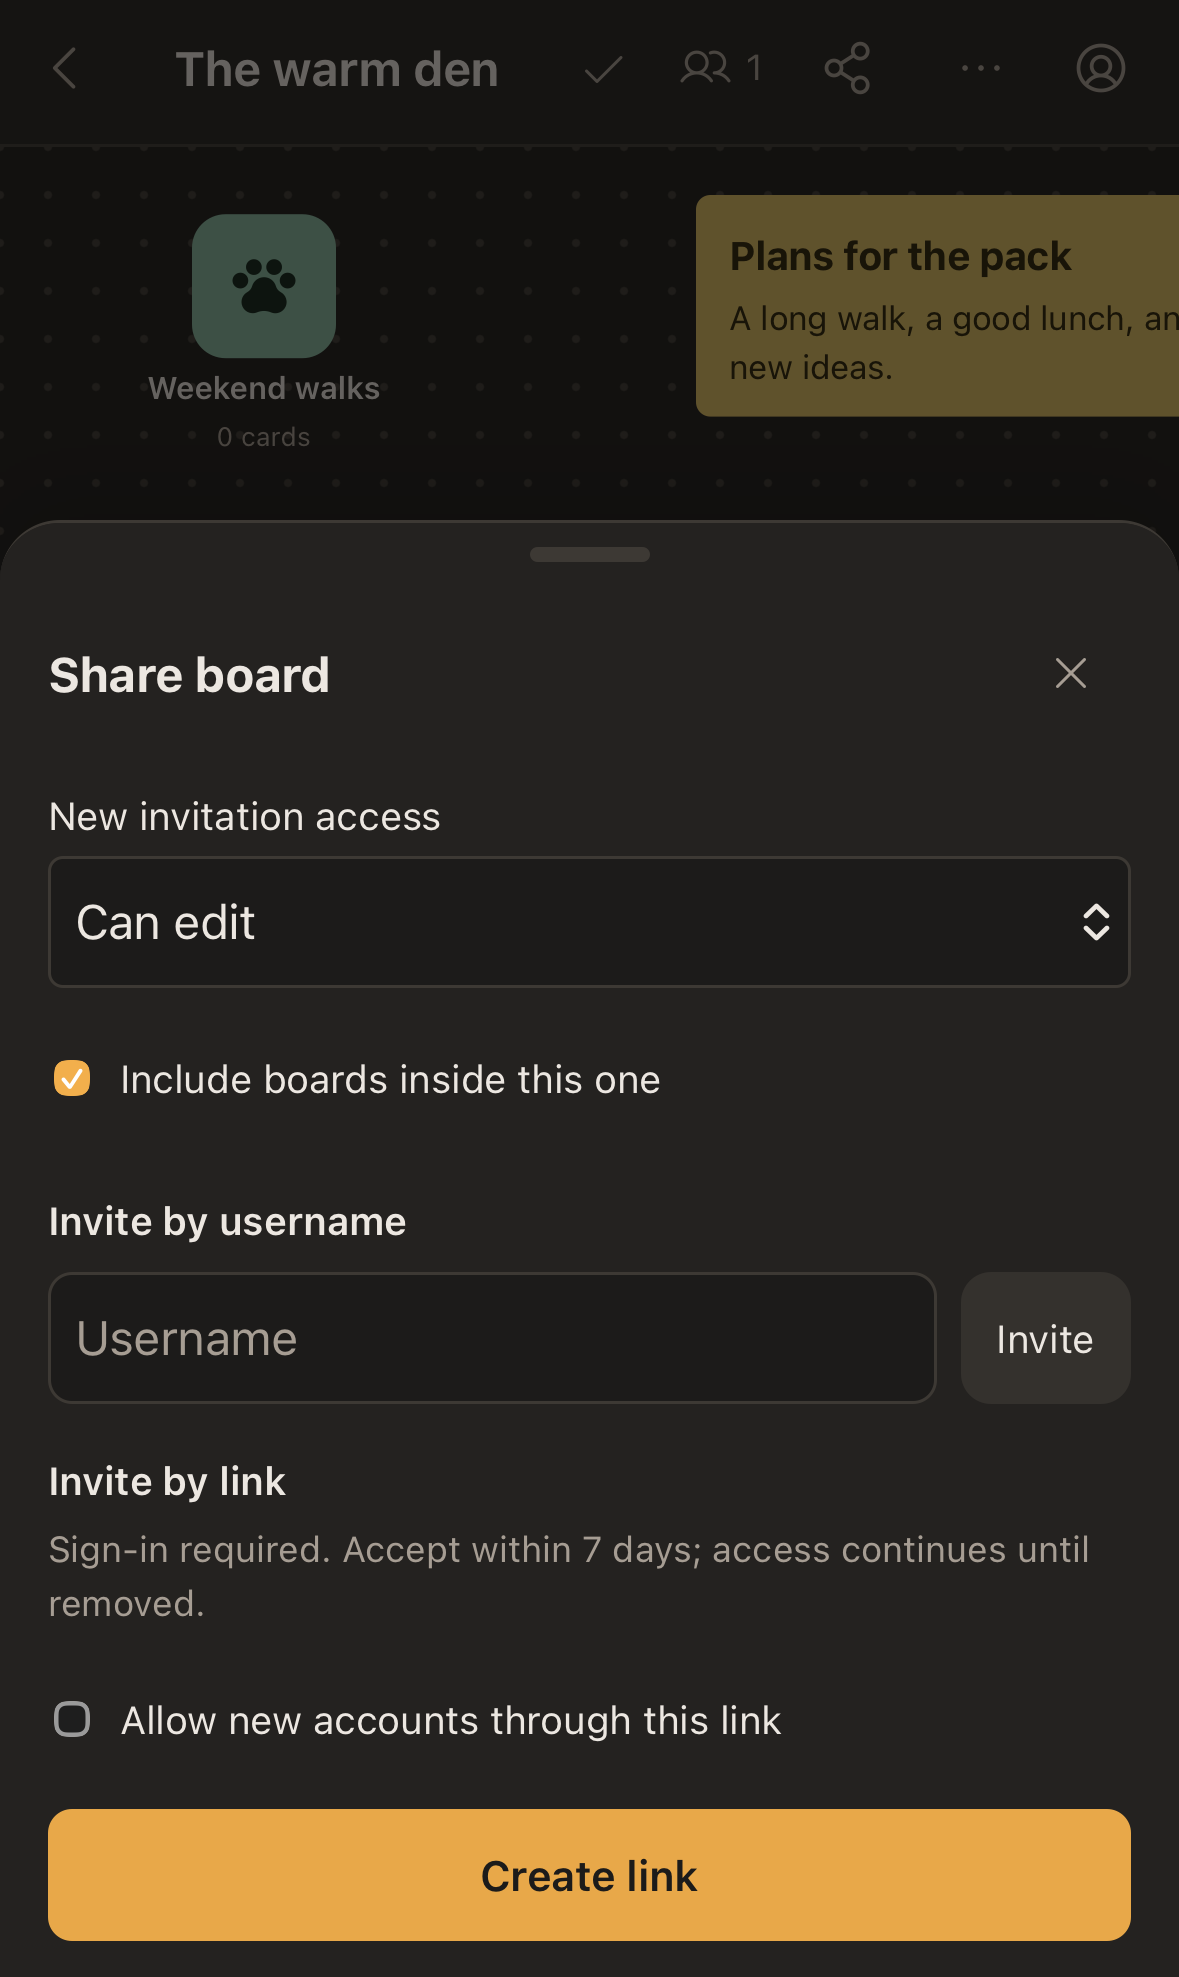
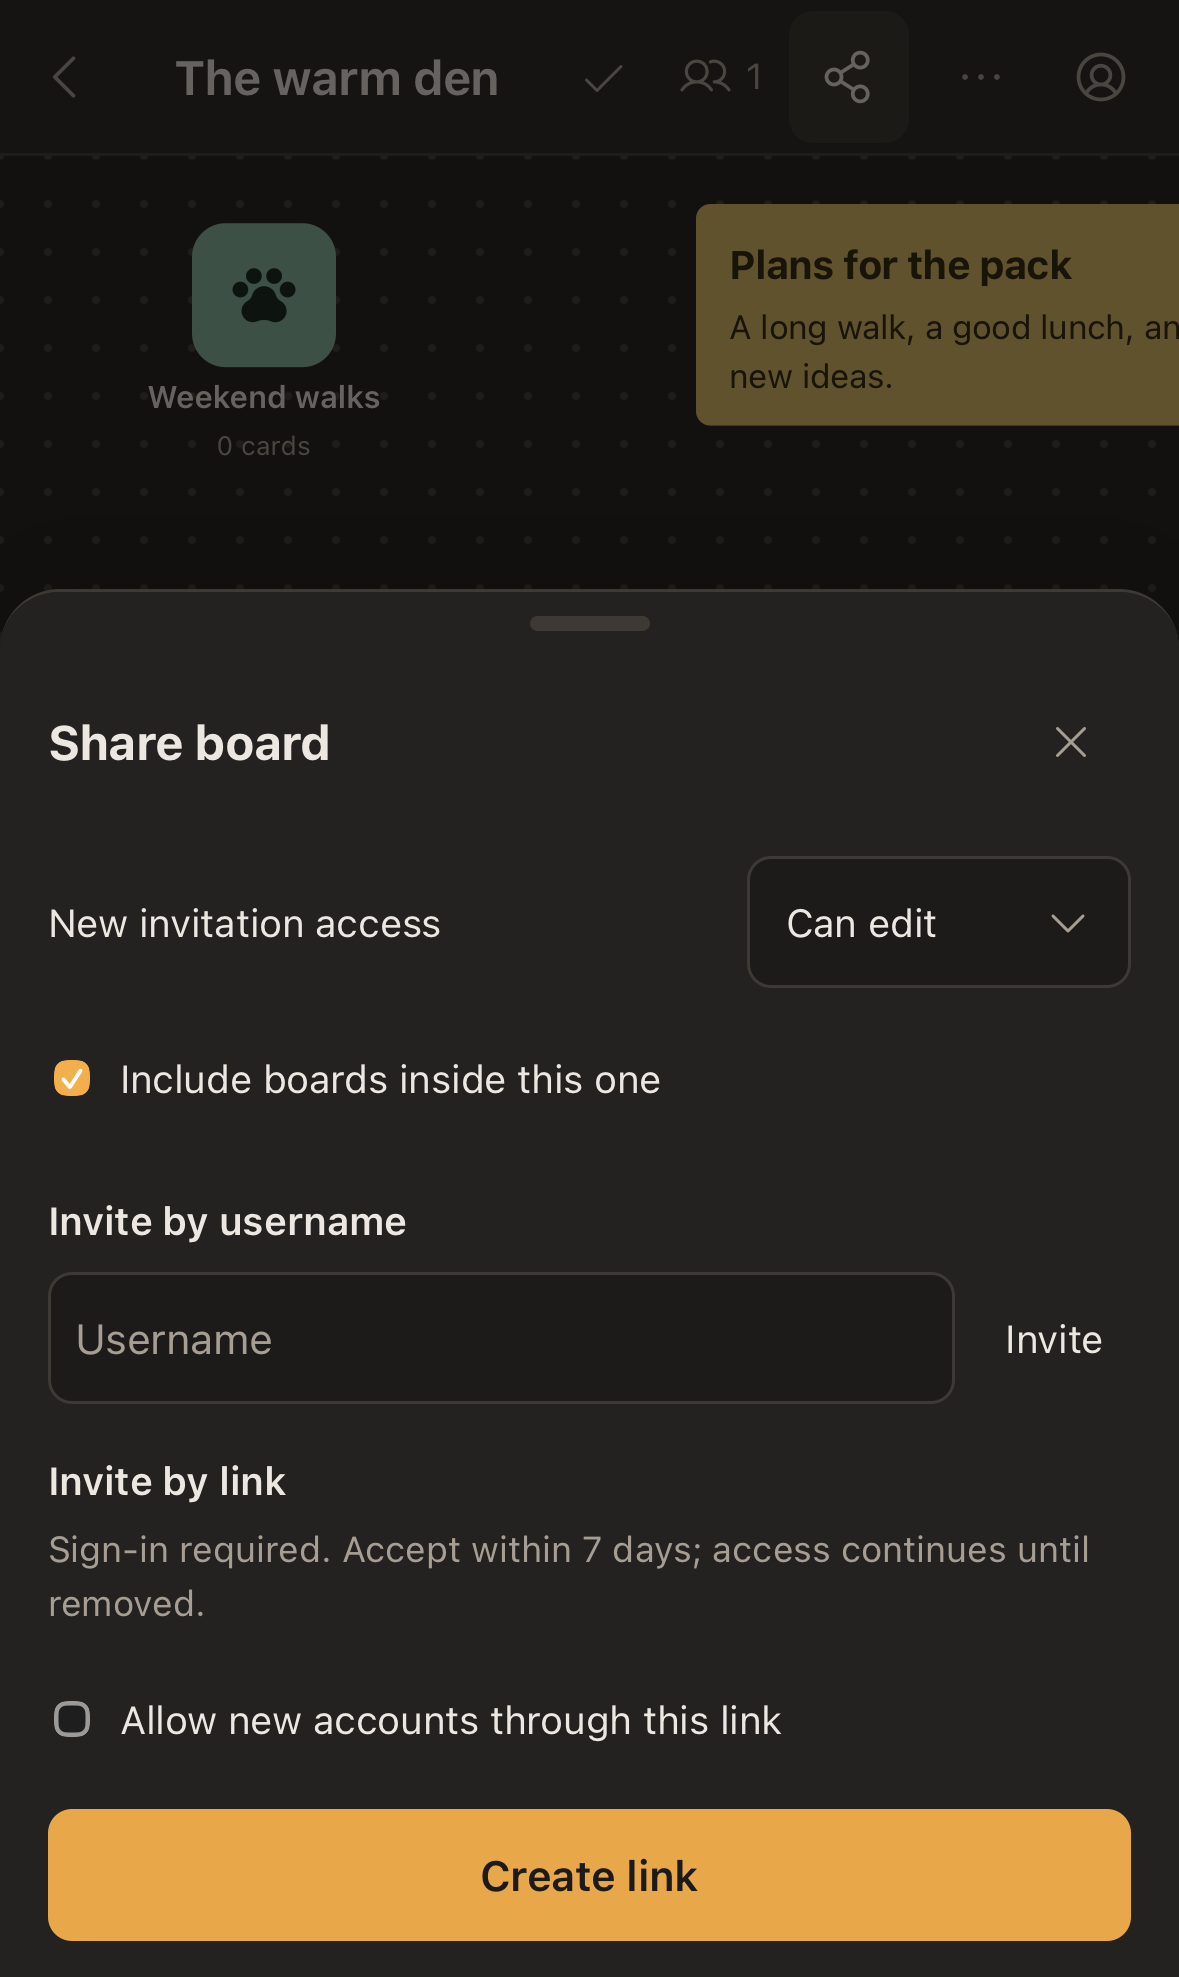
Balance compact invitation permission controls

diff --git a/apps/web/src/ui/ShareDialog.tsx b/apps/web/src/ui/ShareDialog.tsx
@@ -94,8 +94,11 @@ function SharePanel(props: { boardId: Id; onClose: () => void }) {
       <Show when={sharing()?.legacy}><p class="share-sub">Shared space members already have editing access. Admins manage its invitations.</p></Show>
       <Show when={sharing() && parent() && parent() !== `home:${sharing()?.ownerId}`}><p class="share-sub">People with inherited access from “{boardDisplayTitle(doc.getBoard(parent()), 'the parent board')}” keep that access. Manage it on the parent board.</p></Show>
       <section class="share-section" aria-label="New invitation settings">
-        <label class="share-permission-field">New invitation access
-          <select aria-label="Invitation permission" data-testid="invitation-permission" value={permission()} onChange={(e) => setPermission(e.currentTarget.value as 'view' | 'edit')}><option value="view">View only</option><option value="edit">Can edit</option></select>
+        <label class="share-permission-field"><span>New invitation access</span>
+          <span class="share-permission-select">
+            <select aria-label="Invitation permission" data-testid="invitation-permission" value={permission()} onChange={(e) => setPermission(e.currentTarget.value as 'view' | 'edit')}><option value="view">View only</option><option value="edit">Can edit</option></select>
+            <Icon size={16} name="chevronDown" />
+          </span>
         </label>
         <label class="check"><input type="checkbox" data-testid="include-children" checked={includeChildren()} onChange={(e) => setIncludeChildren(e.currentTarget.checked)} />Include boards inside this one</label>
       </section>

diff --git a/apps/web/e2e/mobile-distill.spec.ts b/apps/web/e2e/mobile-distill.spec.ts
@@ -110,6 +110,21 @@ test('phone sharing has one permission control with a touch target', async ({ pa
   const field = (await permission.boundingBox())!, container = (await panel.boundingBox())!
   expect(field.x - container.x).toBeGreaterThanOrEqual(16)
   expect(container.x + container.width - field.x - field.width).toBeGreaterThanOrEqual(16)
+  for (const width of [page.viewportSize()!.width, 320]) {
+    await page.setViewportSize({ width, height: page.viewportSize()!.height })
+    const geometry = await permission.evaluate(el => {
+      const control = el.getBoundingClientRect(), caret = el.nextElementSibling!.getBoundingClientRect()
+      const label = el.closest('label')!.firstElementChild!.getBoundingClientRect()
+      const css = getComputedStyle(el)
+      return { width: control.width, gap: control.left - label.right,
+        centreDifference: Math.abs((control.top + control.bottom - label.top - label.bottom) / 2),
+        insetDifference: Math.abs(control.right - caret.right - parseFloat(css.paddingLeft) - parseFloat(css.borderLeftWidth)) }
+    })
+    expect(geometry.width).toBeLessThanOrEqual(128)
+    expect(geometry.gap).toBeGreaterThanOrEqual(12)
+    expect(geometry.centreDifference).toBeLessThanOrEqual(1)
+    expect(geometry.insetDifference).toBeLessThanOrEqual(1)
+  }
   await permission.selectOption('edit')
   await expect(page.getByTestId('share-allow-signup')).toBeVisible()
   expect((await panel.boundingBox())!.height).toBeLessThanOrEqual(520)

diff --git a/apps/web/e2e/distill.spec.ts b/apps/web/e2e/distill.spec.ts
@@ -23,7 +23,19 @@ test('one invitation permission applies to username invites and links', async ({
   const panel = page.getByTestId('share-panel')
   await expect(panel.locator('select')).toHaveCount(1)
   const permission = panel.getByLabel('Invitation permission')
+  await expect(panel.getByRole('status')).toHaveCount(0)
   await expect(permission).toHaveValue('view')
+  expect(await permission.evaluate(el => {
+    const control = el.getBoundingClientRect(), caret = el.nextElementSibling!.getBoundingClientRect()
+    const css = getComputedStyle(el)
+    return Math.abs(control.right - caret.right - parseFloat(css.paddingLeft) - parseFloat(css.borderLeftWidth))
+  })).toBeLessThanOrEqual(1)
+  await permission.focus()
+  await expect(permission).toBeFocused()
+  // Native type-ahead works without automating an OS-owned picker popup.
+  await page.keyboard.press('c')
+  await page.keyboard.press('Tab')
+  await expect(permission).toHaveValue('edit')
   await permission.selectOption('edit')
   await expect(page.getByTestId('share-allow-signup')).toBeVisible()
   const invited = page.waitForRequest((r) => r.method() === 'POST' && r.url().includes('/members'))

diff --git a/apps/web/src/ui/sharing.css b/apps/web/src/ui/sharing.css
@@ -54,6 +54,9 @@
 }
 
 .share-permission-field { display: flex; align-items: center; justify-content: space-between; gap: 12px; font-size: 13px; }
-.share-permission-field select { width: 128px; height: 36px; flex-shrink: 0; border: 1px solid var(--dn-border); border-radius: 8px; padding: 8px; background: var(--dn-bg); color: var(--dn-text); font: inherit; }
+.share-permission-select { position: relative; flex: 0 0 128px; }
+.share-permission-field select { appearance: none; width: 100%; height: 36px; border: 1px solid var(--dn-border); border-radius: 8px; padding: 0 36px 0 12px; background: var(--dn-bg); color: var(--dn-text); font: inherit; }
+/* Match the text inset inside the 1px border; the native select still owns input. */
+.share-permission-select > svg { position: absolute; right: 13px; top: 50%; margin-top: -8px; pointer-events: none; color: var(--dn-text-muted); }
 
 @media (pointer: coarse) { .share-permission-field select { height: 44px; } }

diff --git a/apps/web/src/ui/mobile.css b/apps/web/src/ui/mobile.css
@@ -473,9 +473,7 @@ html[data-touch-editing] .canvas-controls { visibility: hidden; }
 }
 @media (max-width: 599px), (pointer: coarse) and (max-height: 500px) {
   .share-head { top: -28px; margin-top: -28px; padding-top: 28px; }
-  /* Keep the permission label attached to its full-width touch control. */
-  .share-permission-field { flex-direction: column; align-items: stretch; gap: 4px; }
-  .share-permission-field select { width: 100%; height: 44px; }
+  .share-permission-field select { height: 44px; }
 }
 .install-help { padding-left: 12px; }
 

diff --git a/docs/qa/fewer-choices/README.md b/docs/qa/fewer-choices/README.md
@@ -9,16 +9,19 @@ Item 6 of the Warm Den critique backlog. Reviewed with Impeccable layout/distill
 | A board selection exposes colours, Open, Rename, eight icons and actions at once | Five contextual actions plus Done; palettes and secondary actions in focused sheets | Keeps the board visible and preserves 44px targets |
 | Small palettes spread across a tall sheet; selected tile nearly meets its heading | Centred 212px four-by-two grid, 44px targets, 4px row gaps and 12px header-to-tile gap; selected icons have an outline | Removes excess space while measuring separation from the full selected tile |
 | Separate invitation permissions, flat section spacing and empty lists | One new-invitation permission; 16px section / 8px internal gaps; populated access lists only | Makes scope and grouping clear |
+| Full-width phone permission field and platform arrows close to the edge | Compact label/control row; equal 12px text/caret insets inside the border | Corrects the internal balance without expanding the control |
 | Repeated privacy and checkbox explanations; Create link stays gold during a username invitation | Shorter task copy; inherited access and expiry consequences retained; Invite becomes primary while typing a username | Keeps one primary action aligned with the current task |
 
-Phone Add measures about **273px**, down from 426px in the first refinement (473px before review). Colour and Board icon measure **177px**, down from 193px (237px before review). The private edit-invitation sheet measures about **486px**, previously about 565px. All ordinary touch targets remain at least 44px. Add and palette grips retain their 28px height in a centred 96px target, sharing only the noninteractive space above the heading text. The selected icon uses an outline; mouse hover uses only a neutral fill.
+Phone Add measures about **273px**, down from 426px in the first refinement (473px before review). Colour and Board icon measure **177px**, down from 193px (237px before review). The private edit-invitation sheet measures about **462px**, previously about 565px. All ordinary touch targets remain at least 44px. Add and palette grips retain their 28px height in a centred 96px target, sharing only the noninteractive space above the heading text. The selected icon uses an outline; mouse hover uses only a neutral fill.
 
 Design pass: inspected dark/light iPhone Add, Colour, Board icon and Share plus desktop Share. The final composition uses the app's existing bar-button grammar and aligned columns. Removed the old large-tile and last-child grid exceptions rather than layering more partial overrides. Geometry checks sample the heading and tile in one renderer frame so entrance motion cannot distort the measured gap. Both 320px and default phone widths keep all Add labels readable.
 
-Sharing uses 16px gutters and an explicit native-select height (36px desktop / 44px touch). Existing members and links are separate from new invitations. The inherited-access explanation waits for loaded access data. Scrolled headers paint an opaque strip across the panel, and the phone close control stays below its grip; the existing visual-panel and phone gesture regressions verify both conditions.
+Sharing uses 16px gutters and a compact 128px native select beside its label (36px desktop / 44px touch). A single Phosphor caret replaces the platform arrows; text and caret each sit 12px inside the border. The native picker and keyboard interaction are retained. Existing members and links are separate from new invitations. The inherited-access explanation waits for loaded access data. Scrolled headers paint an opaque strip across the panel, and the phone close control stays below its grip; the existing visual-panel and phone gesture regressions verify both conditions.
 
 The branch includes main `6152b6bf` (#69/#70): immediate Add reopening, explicit grips, native body scrolling, cancellation and focus return remain intact. No card typography, padding, measurements, API contracts, canvas transforms or performance budgets changed. The prior canvas check remains 16.7–16.8ms p95 with a 13MB JS heap.
 
 Screenshots are captured with temporary Playwright specs, removed before commit. Dark/light Add, Colour, Board icon and Share captures are refreshed; creation/selection/More captures remain valid. PNGs are embedded in the PR using their committed SHA.
 
-Validation: `pnpm typecheck` and all 312 unit tests pass. The final Chromium/WebKit/iPhone/Pixel matrix passed 125 functional cases with one intentional platform skip; both dark/light screenshot capture cases also passed. The matrix includes 320px Add alignment and label bounds, palette target and header gaps, explicit grip cancellation/dismissal, rapid Add reopening, reduced motion, keyboard focus, populated sharing/export/dialog layouts and scrolled Share header/close separation. The previous CI Share header failures are reproduced by the unchanged regression tests and now pass in both engines. The layout detector reports zero findings. Temporary capture specs are removed before commit.
+Validation: `pnpm typecheck` and all 312 unit tests pass. The previous full Chromium/WebKit/iPhone/Pixel matrix passed 125 functional cases with one intentional platform skip; both dark/light screenshot capture cases also passed. The matrix includes 320px Add alignment and label bounds, palette target and header gaps, explicit grip cancellation/dismissal, rapid Add reopening, reduced motion, keyboard focus, populated sharing/export/dialog layouts and scrolled Share header/close separation. The previous CI Share header failures are reproduced by the unchanged regression tests and now pass in both engines. The layout detector reports zero findings. Temporary capture specs are removed before commit.
+
+Permission follow-up: inspected refreshed dark/light desktop and iPhone Share captures. The control remains 128px wide at 320px and standard phone widths, vertically aligned with its label, with balanced internal insets and a 44px touch target. Native type-ahead, invitation permissions, populated-panel scrolling and phone grip/close interactions are covered by the browser checks.

diff --git a/apps/web/DESIGN.md b/apps/web/DESIGN.md
@@ -303,7 +303,7 @@ Shelf background, 14px radius, at most 460px wide, over a 45% black backdrop. He
 Note, To-do and Board lead the desktop rail and phone Add sheet. Note is the single accented choice. Occasional tools sit in a quieter More tier; desktop tools keep click and drag creation. Phone Add uses one three-column catalogue of identical 44px inline icon-and-label buttons, with 4px row gaps and 8px column gaps. The first three tools use weight 600; Note alone has the primary button fill. Occasional tools remain visible on the same column grid, without a second heading or button grammar. Add and palette sheets use 16px gutters and a 44px header; their centred 96px-wide grip retains its 28px drag target while sharing the noninteractive space above the heading text.
 
 ### Sharing
-One labelled Invitation permission control applies to new username invitations and links. Existing access and links retain their own permissions. View only is the default; Can edit exposes the account-creation option for links. Settings are labelled for new invitations; existing people and links form separate sections, shown only when populated. Use 16px between sections, 8px within sections and 4px from a heading to its explanation. On phones the permission label sits above a full-width 44px select; desktop keeps a label/control row. Typing a username gives Invite the single primary emphasis. General privacy and redundant checkbox copy stay out of the creation flow; inherited access and invitation-expiry consequences remain explicit.
+One labelled Invitation permission control applies to new username invitations and links. Existing access and links retain their own permissions. View only is the default; Can edit exposes the account-creation option for links. Settings are labelled for new invitations; existing people and links form separate sections, shown only when populated. Use 16px between sections, 8px within sections and 4px from a heading to its explanation. The permission label and compact 128px native select share a row on desktop and phone. The select has balanced 12px text/chevron insets inside its border and one Phosphor caret; it is 36px tall on desktop and 44px on touch. Typing a username gives Invite the single primary emphasis. General privacy and redundant checkbox copy stay out of the creation flow; inherited access and invitation-expiry consequences remain explicit.
 
 ### Selection bar
 A floating shelf pill (12px radius, floating shadow) centred above the selection, popping in over 140ms. If it would cover a visible card, it flips below or slides into the nearest clear space. Labels popovers also avoid card content and the bar; crowded boards use the position covering the least content. It holds the swatches, icon picker, labels and actions. It wraps rather than scrolls on narrow windows. On phones, a compact dock shows Open (boards) or Edit, Colour, Labels, Bury and More. Only Open/Edit gets the accent fill; Done closes the selection separately. Colour and board icons open focused sheets with a centred four-by-two grid: 44px targets, 12px column gaps and 4px row gaps, preserving 32px colour dots and 24px icons. Leave 12px between the header row and the full target tile. Selected icons use the selection outline as well as a neutral fill; hover uses the fill alone. More holds Rename, board icons, locks, alignment, duplication, comments, connectors and list options when applicable. The selected colour always reflects the displayed card or board.
